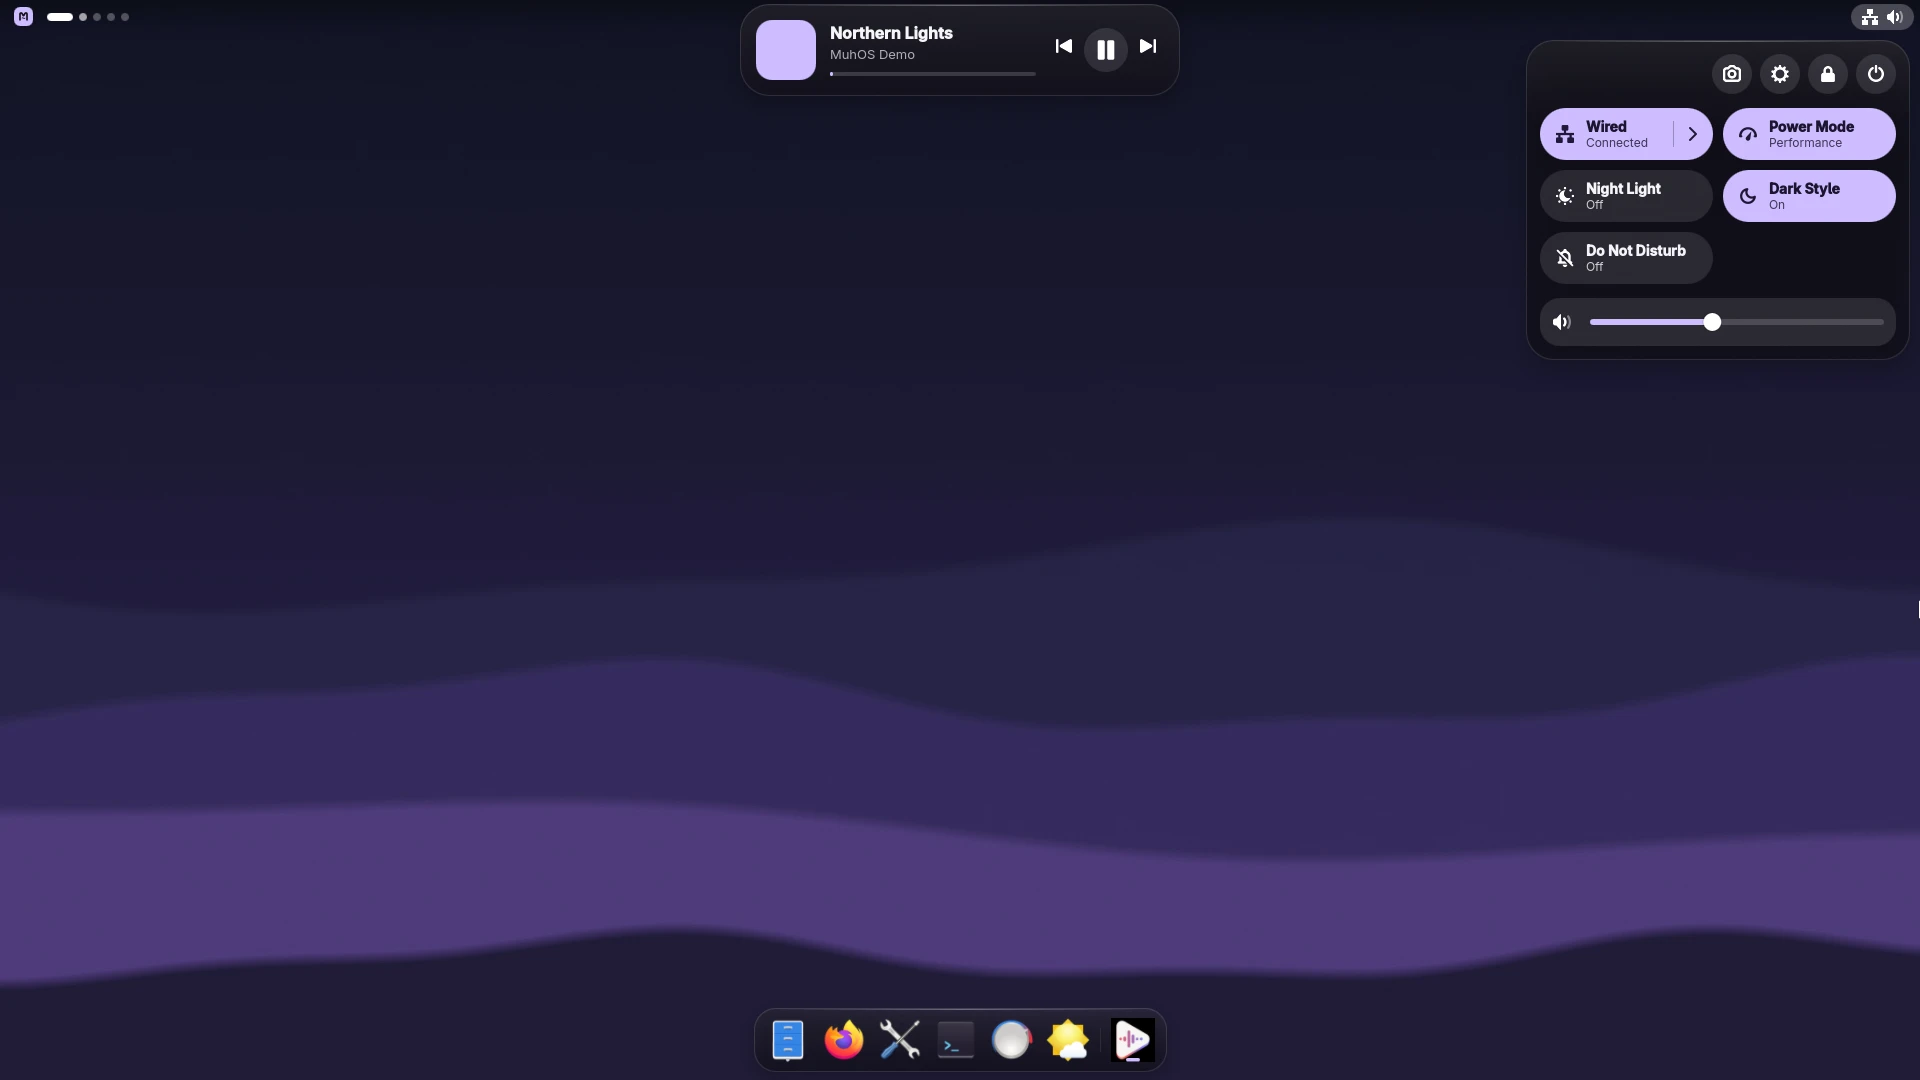
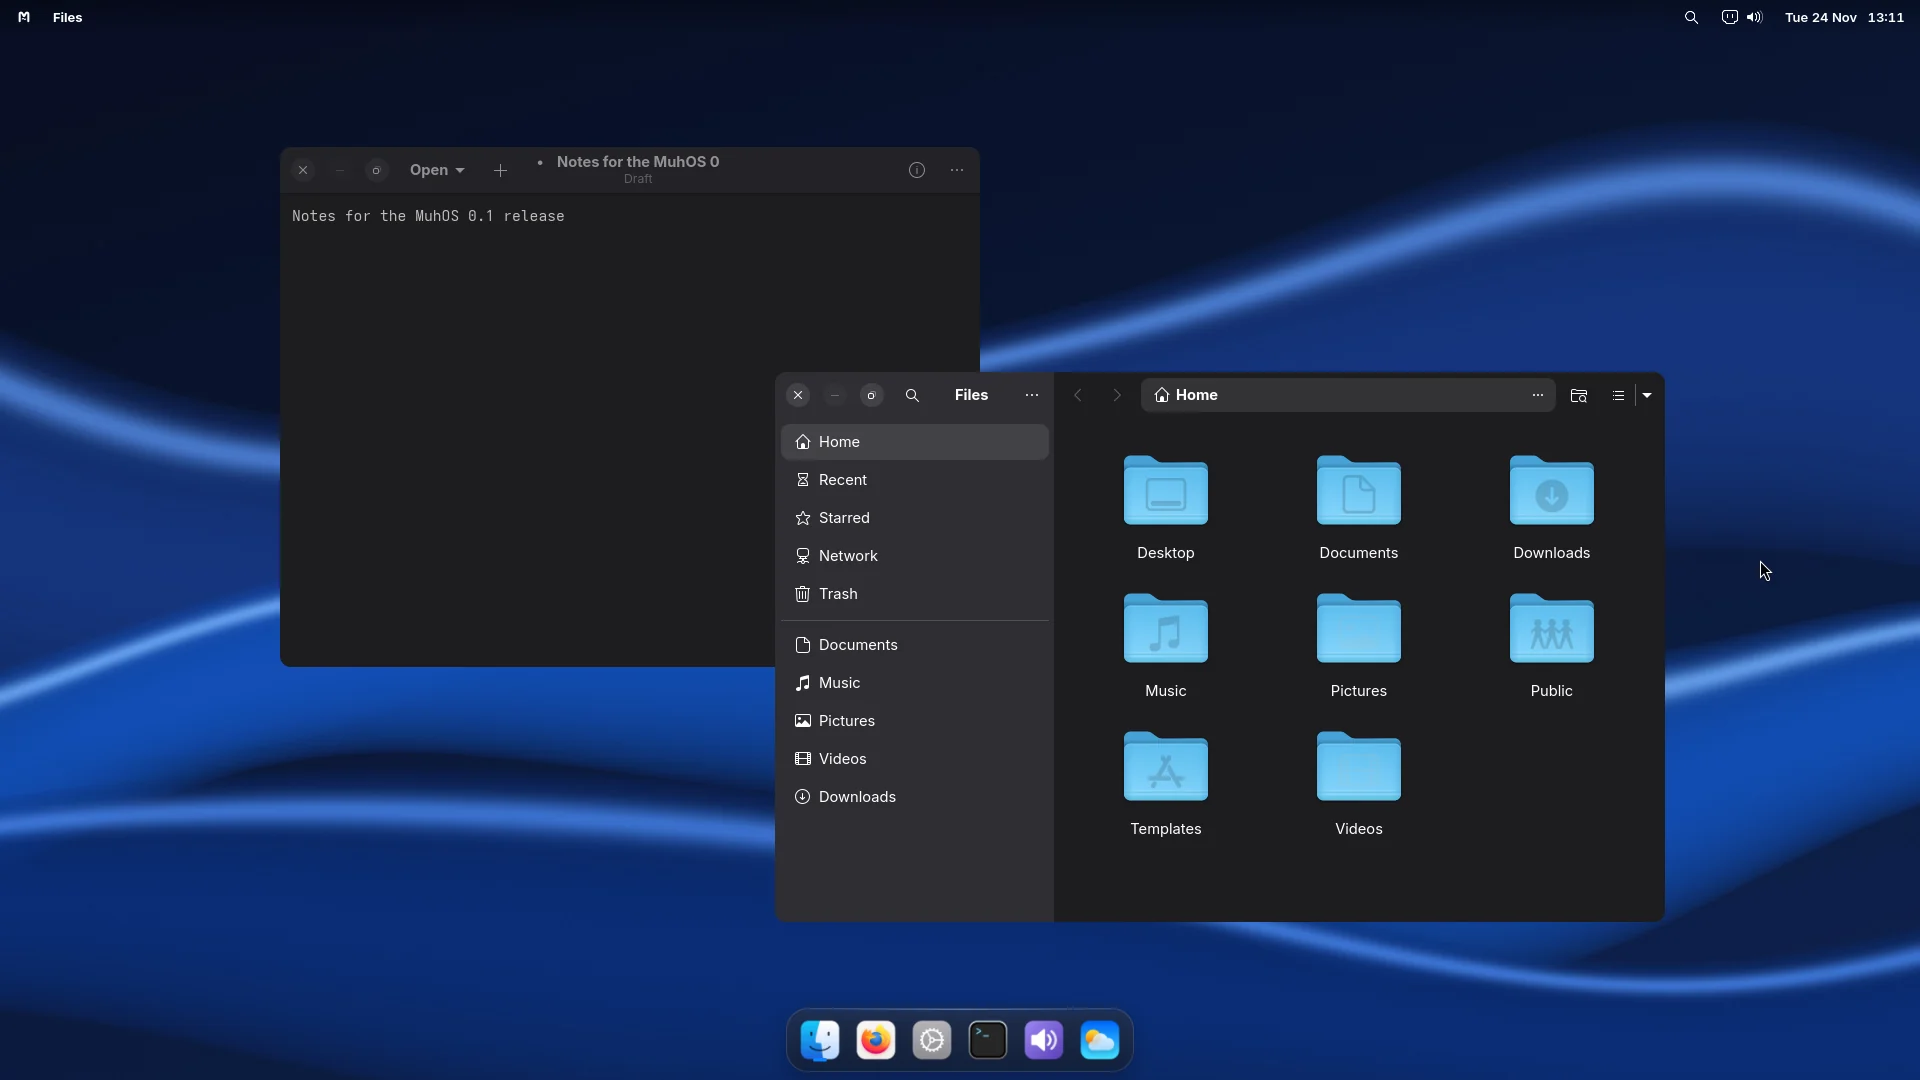
[fork] README: screenshots of the macOS look
All screenshots retaken in the VM with muhos 0.1.0-0.14 at 1920x1080 (the
music window is unchanged). The logo menu replaces the clock island, which
is now only in the hybrid layout.

diff --git a/README.md b/README.md
@@ -19,7 +19,7 @@
 </p>
 
 <p align="center">
-  <img src="docs/screenshots/desktop-dark.webp" alt="MuhOS desktop in dark mode: transparent menu bar, the clock island expanded into a music player, the control centre open and the glass dock" width="100%">
+  <img src="docs/screenshots/desktop-dark.webp" alt="MuhOS desktop in dark mode: a macOS-style menu bar with the logo and the Files app name, Files and Text Editor windows floating over a dark blue wallpaper, and the glass dock" width="100%">
 </p>
 
 MuhOS is a desktop shell for the [Hyprland](https://hyprland.org/) compositor
@@ -63,16 +63,16 @@ Miroshnichenko.
 
 <table>
   <tr>
-    <td width="50%"><img src="docs/screenshots/desktop-light.webp" alt="Light mode: dark menu-bar text over a light wallpaper, the light control centre and the glass dock"></td>
-    <td width="50%"><img src="docs/screenshots/tiling.webp" alt="Tiled windows: the Decibels audio player and Files side by side under the transparent menu bar"></td>
+    <td width="50%"><img src="docs/screenshots/desktop-light.webp" alt="Light mode: Files with red, yellow and green window buttons and macOS-style folders, a Text Editor window behind it, a light blue wallpaper and the glass dock"></td>
+    <td width="50%"><img src="docs/screenshots/tiling.webp" alt="Tiled windows: Text Editor and Files side by side under the transparent menu bar"></td>
   </tr>
   <tr>
-    <td align="center"><b>Light mode.</b> Bar text adapts to the wallpaper; the accent comes from it too.</td>
-    <td align="center"><b>Tiling.</b> Hyprland arranges windows; the menu bar stays out of the way.</td>
+    <td align="center"><b>Light mode.</b> Apps in WhiteSur with macOS window buttons and icons.</td>
+    <td align="center"><b>Tiling.</b> Windows float like on macOS; <kbd>Super</kbd>+<kbd>T</kbd> tiles them.</td>
   </tr>
   <tr>
-    <td><img src="docs/screenshots/launcher.webp" alt="Spotlight-style launcher: the query muhos finds the MuhOS Settings app, the Settings action and three files"></td>
-    <td><img src="docs/screenshots/notifications.webp" alt="Three glass notification banners: a screenshot with its preview, a Firefox update with Restart and Later buttons, and a calendar reminder"></td>
+    <td><img src="docs/screenshots/launcher.webp" alt="Spotlight-style launcher: the query fi finds Files, Firefox and other apps, and the Turn Night Light On action"></td>
+    <td><img src="docs/screenshots/notifications.webp" alt="Three glass notification banners: a screenshot with its preview, software updates with Later and Restart buttons, and a calendar reminder"></td>
   </tr>
   <tr>
     <td align="center"><b>Launcher.</b> Apps, system actions, files and a calculator in one search.</td>
@@ -80,19 +80,19 @@ Miroshnichenko.
   </tr>
   <tr>
     <td><img src="docs/screenshots/notification-centre.webp" alt="Notification centre: a list of notifications with Clear all and a Do Not Disturb switch, beside today's date and a month calendar"></td>
-    <td><img src="docs/screenshots/lock-screen.webp" alt="Lock screen: blurred wallpaper, a large clock, now playing and notification titles, the user's picture and a glass password field"></td>
+    <td><img src="docs/screenshots/lock-screen.webp" alt="Lock screen: blurred blue wallpaper, the date and a large clock, notification titles, the user's picture and a glass password field"></td>
   </tr>
   <tr>
-    <td align="center"><b>Notification centre.</b> Click the clock: notifications and a calendar.</td>
+    <td align="center"><b>Notification centre.</b> Click the date and time: notifications and a calendar.</td>
     <td align="center"><b>Lock screen.</b> Notification titles only; message contents stay private.</td>
   </tr>
   <tr>
     <td><img src="docs/screenshots/music.webp" alt="Music popup with cover, playback controls and a ten-band equalizer with presets"></td>
-    <td><img src="docs/screenshots/settings.webp" alt="MuhOS Settings window with the red close button beside its title and sections from Welcome to About"></td>
+    <td><img src="docs/screenshots/settings.webp" alt="MuhOS Settings on the Theme page: coloured section icons from Welcome to About, and the accent colour choices"></td>
   </tr>
   <tr>
     <td align="center"><b>Music.</b> Equalizer with presets, lyrics, output switching.</td>
-    <td align="center"><b>Settings.</b> Display, theme, bar, dock, notifications, idle and more.</td>
+    <td align="center"><b>Settings.</b> Accent colours, presets, fonts, bar, dock, notifications and more.</td>
   </tr>
 </table>
 
@@ -103,7 +103,7 @@ Miroshnichenko.
 Every MuhOS surface is frosted glass: translucent panels over a blur of
 whatever is behind them, with a soft sheen and a light edge, as on macOS.
 
-<img src="docs/screenshots/control-centre.webp" alt="Control centre: pill toggles, volume slider and session buttons" width="360" align="right">
+<img src="docs/screenshots/control-centre.webp" alt="Control centre: blue pill toggles for wired network, power mode and do not disturb, night light and dark style, a volume slider with an arrow, and session buttons" width="360" align="right">
 
 - **Menu bar.** Transparent over the wallpaper and laid out like macOS. On
   the left, the MuhOS logo opens a menu (About, System Settings, Search,
@@ -159,7 +159,7 @@ whatever is behind them, with a soft sheen and a light edge, as on macOS.
 
 <br clear="right">
 
-<img src="docs/screenshots/osd.webp" alt="Volume indicator: a glass pill with a speaker icon, a level bar and 55%" width="320" align="right">
+<img src="docs/screenshots/osd.webp" alt="Volume indicator: a glass pill with a speaker icon, a level bar and 50%" width="320" align="right">
 
 - **On-screen indicator.** A glass pill under the status icons for volume,
   microphone and brightness (drag or scroll it to adjust) and for caps lock,
@@ -176,7 +176,7 @@ whatever is behind them, with a soft sheen and a light edge, as on macOS.
 
 <br clear="right">
 
-<img src="docs/screenshots/clock-island.webp" alt="Clock island expanded into a music player" width="420">
+<img src="docs/screenshots/menu.webp" alt="The logo menu: About MuhOS, System Settings, Search, Sleep, Restart, Shut Down, Lock Screen and Log Out" width="250">
 
 ### From Serpantinum
 

diff --git a/ASSETS.md b/ASSETS.md
@@ -22,7 +22,7 @@ Excluded from this inventory: nothing.
 | Status | Files | Size | Redistributable |
 |---|---:|---:|:---:|
 | generated | 27 | 135.9 KiB | yes |
-| ok | 90 | 96.2 MiB | yes |
+| ok | 90 | 96.3 MiB | yes |
 | **total** | **117** | **96.4 MiB** | |
 
 ## Assets
@@ -57,19 +57,19 @@ Excluded from this inventory: nothing.
 | `src/assets/shaders/widgets/pacman.frag.qsb` | shader-binary | 2.6 KiB | generated | AGPL-3.0-or-later (compiled from .frag) |  | Rebuild with qsb during RPM build | `ac77565dcb38` |
 | `src/assets/shaders/widgets/widget_outline.frag.qsb` | shader-binary | 4.1 KiB | generated | AGPL-3.0-or-later (compiled from .frag) |  | Rebuild with qsb during RPM build | `1981dcdd25a1` |
 | `docs/assets/muhos-tile.svg` | image | 1014 B | ok | AGPL-3.0-or-later (MuhOS mark on a tile… |  |  | `0d3b9593507a` |
-| `docs/screenshots/calculator.webp` | image | 4.8 KiB | ok | AGPL-3.0-or-later (screenshots of MuhOS… |  |  | `2c756be9c170` |
-| `docs/screenshots/clock-island.webp` | image | 3.6 KiB | ok | AGPL-3.0-or-later (screenshots of MuhOS… |  |  | `ab34bb3914d8` |
-| `docs/screenshots/control-centre.webp` | image | 11.3 KiB | ok | AGPL-3.0-or-later (screenshots of MuhOS… |  |  | `520f59d778a2` |
-| `docs/screenshots/desktop-dark.webp` | image | 29.7 KiB | ok | AGPL-3.0-or-later (screenshots of MuhOS… |  |  | `1480f3cf2fa2` |
-| `docs/screenshots/desktop-light.webp` | image | 27.8 KiB | ok | AGPL-3.0-or-later (screenshots of MuhOS… |  |  | `4c879daa7a58` |
-| `docs/screenshots/launcher.webp` | image | 16.8 KiB | ok | AGPL-3.0-or-later (screenshots of MuhOS… |  |  | `e59ef2761af2` |
-| `docs/screenshots/lock-screen.webp` | image | 30.1 KiB | ok | AGPL-3.0-or-later (screenshots of MuhOS… |  |  | `36bd39571822` |
+| `docs/screenshots/calculator.webp` | image | 5.0 KiB | ok | AGPL-3.0-or-later (screenshots of MuhOS… |  |  | `60fe22dced10` |
+| `docs/screenshots/control-centre.webp` | image | 10.7 KiB | ok | AGPL-3.0-or-later (screenshots of MuhOS… |  |  | `5ed39b317e40` |
+| `docs/screenshots/desktop-dark.webp` | image | 40.9 KiB | ok | AGPL-3.0-or-later (screenshots of MuhOS… |  |  | `9839aff0d7e9` |
+| `docs/screenshots/desktop-light.webp` | image | 43.9 KiB | ok | AGPL-3.0-or-later (screenshots of MuhOS… |  |  | `349605683359` |
+| `docs/screenshots/launcher.webp` | image | 16.4 KiB | ok | AGPL-3.0-or-later (screenshots of MuhOS… |  |  | `ee30189f72d2` |
+| `docs/screenshots/lock-screen.webp` | image | 35.1 KiB | ok | AGPL-3.0-or-later (screenshots of MuhOS… |  |  | `abe711280f5b` |
+| `docs/screenshots/menu.webp` | image | 5.5 KiB | ok | AGPL-3.0-or-later (screenshots of MuhOS… |  |  | `942c0d91d10e` |
 | `docs/screenshots/music.webp` | image | 18.4 KiB | ok | AGPL-3.0-or-later (screenshots of MuhOS… |  |  | `e1f72891452b` |
-| `docs/screenshots/notification-centre.webp` | image | 28.4 KiB | ok | AGPL-3.0-or-later (screenshots of MuhOS… |  |  | `1badc610004b` |
-| `docs/screenshots/notifications.webp` | image | 14.4 KiB | ok | AGPL-3.0-or-later (screenshots of MuhOS… |  |  | `802ac2769694` |
-| `docs/screenshots/osd.webp` | image | 1.5 KiB | ok | AGPL-3.0-or-later (screenshots of MuhOS… |  |  | `0ca7a404e8c2` |
-| `docs/screenshots/settings.webp` | image | 24.6 KiB | ok | AGPL-3.0-or-later (screenshots of MuhOS… |  |  | `20c776d0305a` |
-| `docs/screenshots/tiling.webp` | image | 34.5 KiB | ok | AGPL-3.0-or-later (screenshots of MuhOS… |  |  | `a21a84722a2d` |
+| `docs/screenshots/notification-centre.webp` | image | 21.8 KiB | ok | AGPL-3.0-or-later (screenshots of MuhOS… |  |  | `00fe6096bae7` |
+| `docs/screenshots/notifications.webp` | image | 12.5 KiB | ok | AGPL-3.0-or-later (screenshots of MuhOS… |  |  | `afc718d0ab62` |
+| `docs/screenshots/osd.webp` | image | 1.5 KiB | ok | AGPL-3.0-or-later (screenshots of MuhOS… |  |  | `763ad9b517d5` |
+| `docs/screenshots/settings.webp` | image | 42.6 KiB | ok | AGPL-3.0-or-later (screenshots of MuhOS… |  |  | `2b93e87ce6b4` |
+| `docs/screenshots/tiling.webp` | image | 28.9 KiB | ok | AGPL-3.0-or-later (screenshots of MuhOS… |  |  | `c4935a4e25f5` |
 | `packaging/fedora/icons/muhos-sound.svg` | image | 829 B | ok | AGPL-3.0-or-later (MuhOS original app i… |  |  | `16dd88abf54a` |
 | `src/assets/fonts/0xProtoNerdFont-Regular.ttf` | font | 2.3 MiB | ok | OFL-1.1 — 0xProto-LICENSE.txt | 0xType Project Authors (https://github.com/0xType) |  | `014921bcefcb` |
 | `src/assets/fonts/3270NerdFont-Regular.ttf` | font | 2.5 MiB | ok | OFL-1.1 — 3270-LICENSE.txt | This Font Software is licensed under the SIL Open Font License, Version 1.1. This license… |  | `78540c388022` |
